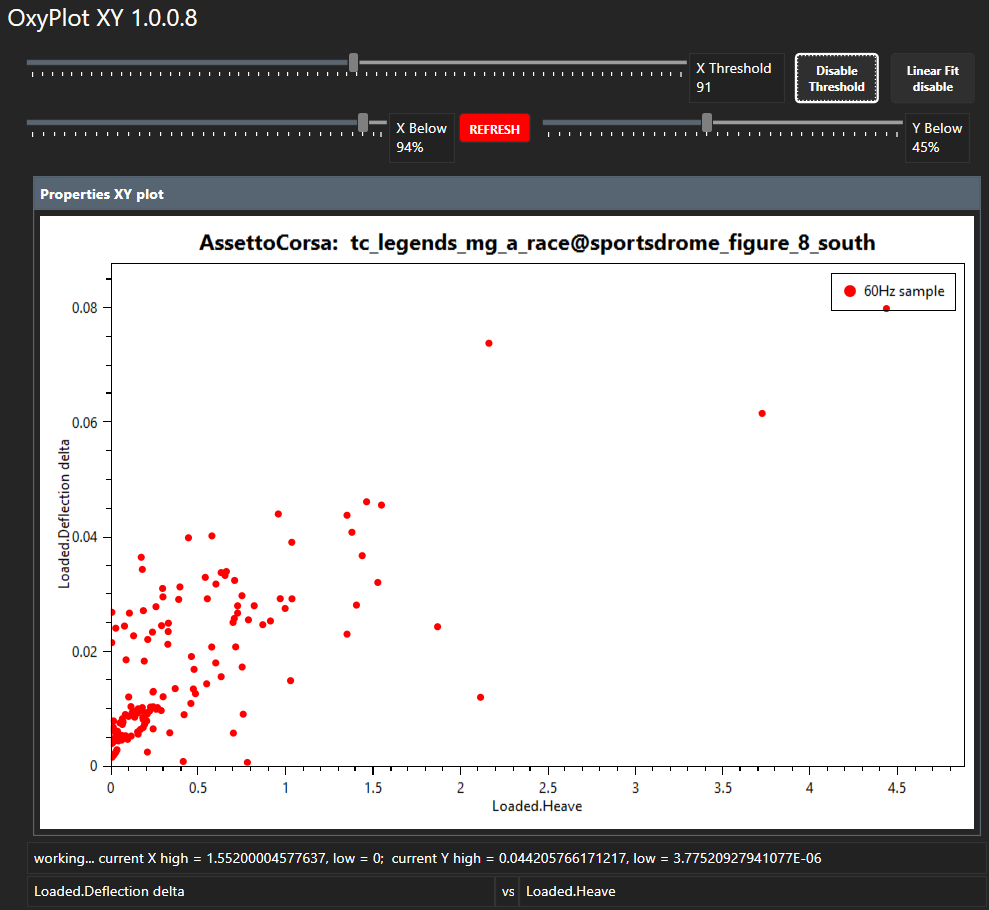
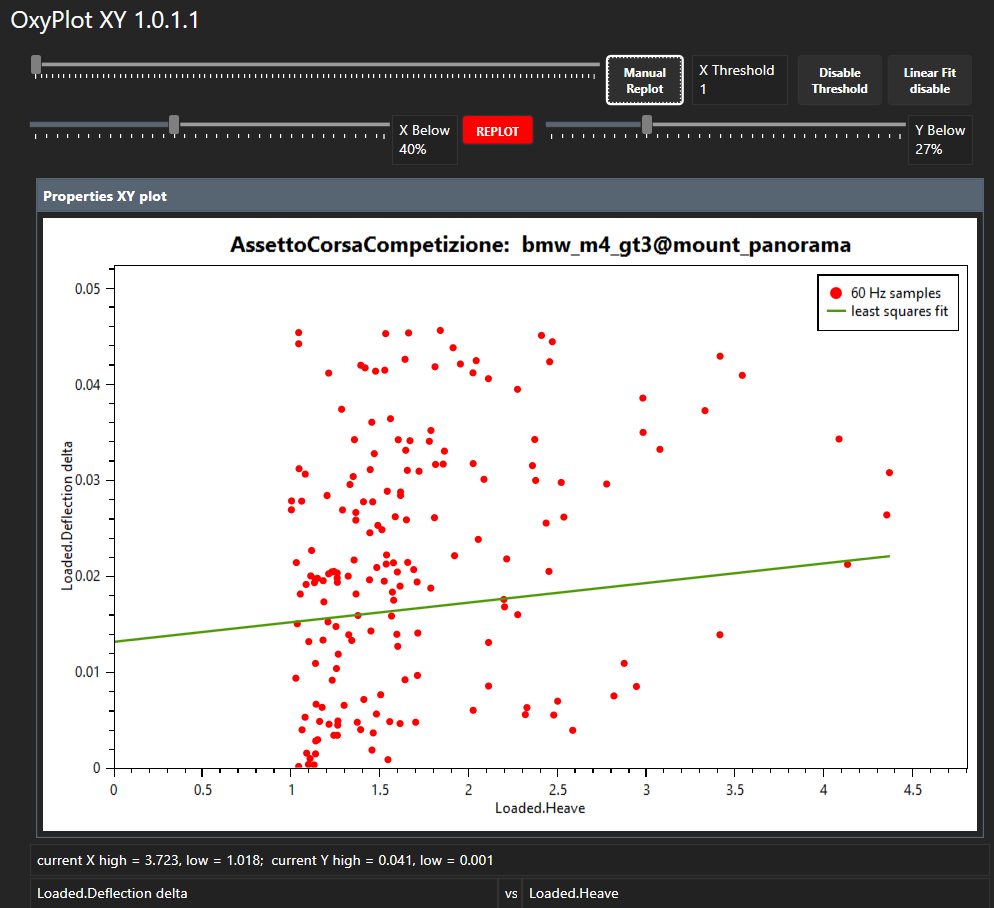
update README

diff --git a/README.md b/README.md
@@ -44,7 +44,9 @@ XY plot of *positive* property values
 - better icon, simpler xaml, version number
 - both X and Y autorange based on max property sample values
 - **Replot** when min sample values < `X Below`, `Y Below` % of corresponding max values
-- should add a third slider for minimum useful X values.
+#### 21 Nov:
+- added a threshold slider for minimum useful X values.
+- `View.Dispatcher.Invoke()` to auto `View.Replot()` *from* `DataUpdate()` *thread*
 
 #### Property folder changes from default WPF project for SimHub plugins
 <details><summary>click for differences</summary>
